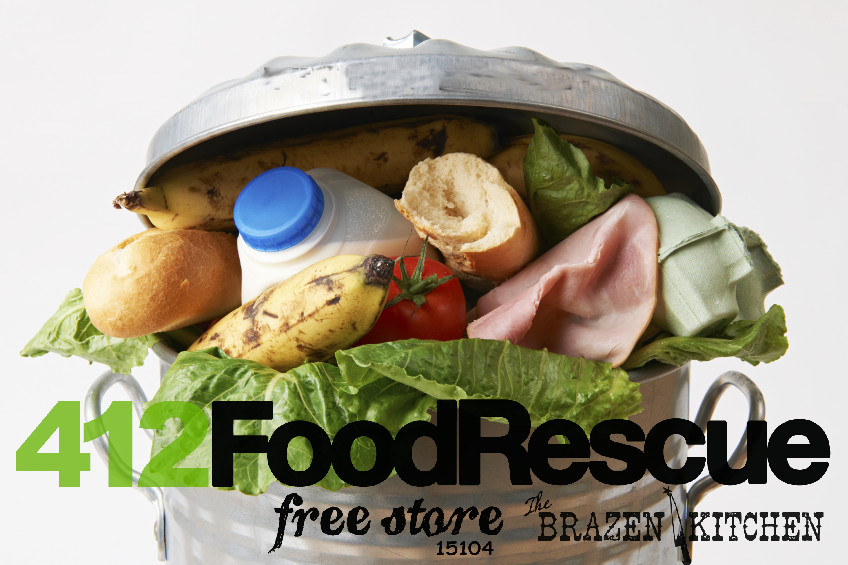
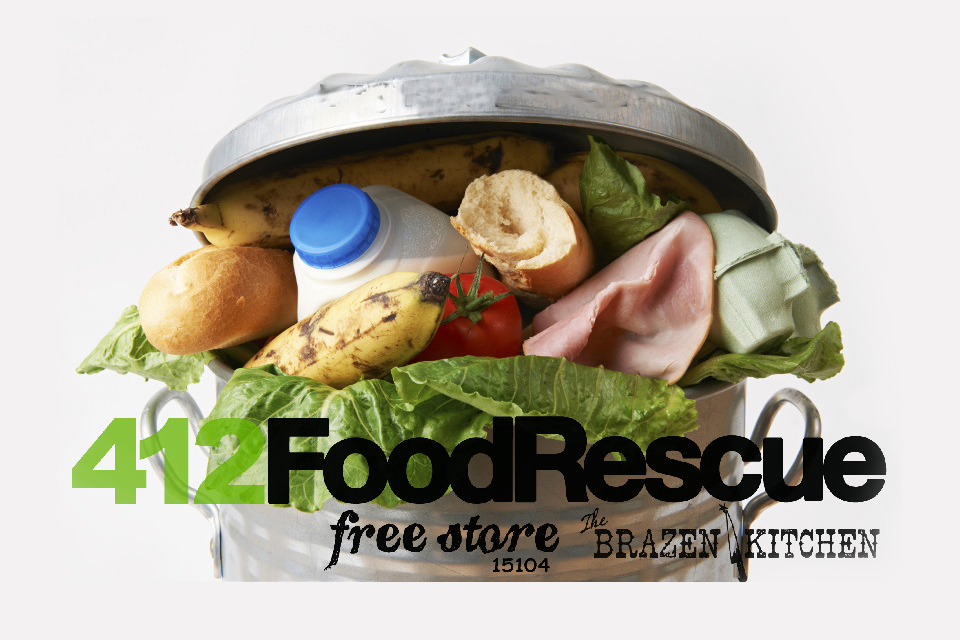
faded main img into bg

diff --git a/_static_assets/scripts/components/Jobs.jsx b/_static_assets/scripts/components/Jobs.jsx
@@ -1,7 +1,9 @@
 var _ = require('underscore'),
 	$ = require('jquery'),
-	React = require('react'),
+	React = require('react/addons'),
 	Job = require('./Job.jsx');
+
+var ReactCSSTransitionGroup = React.addons.CSSTransitionGroup;
 
 var Jobs = React.createClass({
 	propTypes: {
@@ -40,7 +42,9 @@ var Jobs = React.createClass({
 		return _.map(jobs, function(job) {
 			return (
 				<li className="list-unstyled jobs-list-item row">
-					<Job job={job} navToJob={this.navToJob} />
+					<ReactCSSTransitionGroup transitionName="fade">
+						<Job job={job} navToJob={this.navToJob} />
+					</ReactCSSTransitionGroup>   
 				</li>
 			);
 		}, this);

diff --git a/views/index.html b/views/index.html
@@ -4,17 +4,17 @@
     {{ super() }}
     <meta charset="UTF-8">
     <style>
-	  html, body, div
-	  {
+	  html, body, div {
 	    height: 100%;
 	  }
 
 	  body {
+	  	background-color: #f3f1f2;
 	  	background-image: url('img/foodrescue.jpg');
-	        background-repeat: no-repeat;
-	        background-attachment: fixed;
-	        background-position: center; 
-	        cursor: pointer;
+        background-repeat: no-repeat;
+        background-attachment: fixed;
+        background-position: center; 
+        cursor: pointer;
 	  }
     </style>
 {% endblock %}

diff --git a/views/base.html b/views/base.html
@@ -1,6 +1,5 @@
-<!DOCTYPE HTML PUBLIC "-//W3C//DTD HTML 4.01//EN">
-<html lang="en">
-<html xmlns="http://www.w3.org/1999/xhtml">
+<!DOCTYPE html>
+<html>
 <head>
     {% block head %}
     <link rel="stylesheet" href="../scripts/main.css" />
@@ -26,7 +25,7 @@
   </nav>
 
   <div id="content">{% block content %}{% endblock %}</div>
-  <div id="footer">
+  <div id="footer" class="container-fluid">
       {% block footer %}
       &copy; Copyright 2015 by <a href="http://412FoodRescue.org">412 Food Rescue</a>.
       {% endblock %}

diff --git a/scripts/main.css b/scripts/main.css
@@ -1,12 +1,12 @@
 body { 
 	padding-top: 70px;
-	background: #f1f1f1;
+	background-color: #f3f1f2;
 }
 h2 {
 	font-weight: 300;
 	margin-bottom: 30px;
 }
-.jobs-list {
+ul {
 	padding-left: 0;
 	margin-left: 0;
 }
@@ -22,14 +22,14 @@ h2 {
 .job-description {
 
 }
-.job-base {
+/*.job-base {
 	margin: 5px 0;
 	background: #fff;
 	border-radius: 1px;
 	padding: 15px 30px;
 	box-shadow: 0 0 1px 0 rgba(0,0,0,.1),
 				0 1px 2px 0 rgba(0,0,0,.12);
-}
+}*/
 .address-text {
 	margin-right: 4px;
 }

diff --git a/_static_assets/scripts/components/Job.jsx b/_static_assets/scripts/components/Job.jsx
@@ -31,9 +31,9 @@ var Job = React.createClass({
 	    return (
             <div className="job col-lg-12 col-xs-12">
                 {this.renderJobBase(this.state.job)}
-                <ReactCSSTransitionGroup transitionName="fade">
+                
                     {this.state.showDetails && this.renderJobDetails(this.state.job)}
-                </ReactCSSTransitionGroup>           
+                        
             </div>
 	    );
 

diff --git a/_static_assets/scripts/components/DonorList.jsx b/_static_assets/scripts/components/DonorList.jsx
@@ -13,7 +13,8 @@ var DonorList = React.createClass({
     },
     render: function() {    
 	    return (
-            <div>
+            <div className="container">
+                <h2>Donor List</h2>
                 <ul>
                     {this.renderDonorsList(this.state.donors)}
                 </ul>	    	   

diff --git a/views/drop_off/drop_off_list.html b/views/drop_off/drop_off_list.html
@@ -4,9 +4,8 @@
     {{ super() }}
 {% endblock %}
 {% block content %}
-	<!-- list of locations where you can drop things off -->
 
-    <h1>Drop Off List!</h1>
+	<!-- list of locations where you can drop things off -->
 
 	<div id="app-container"></div>
 

diff --git a/views/donor_list.html b/views/donor_list.html
@@ -4,7 +4,6 @@
     {{ super() }}
 {% endblock %}
 {% block content %}
-        <h1>Donor List!</h1>
 
 	<div id="app-container"></div>
 

diff --git a/_static_assets/styles/main.css b/_static_assets/styles/main.css
@@ -1,7 +1,3 @@
-body { 
-	padding-top: 70px;
-	background: #f1f1f1;
-}
 h2 {
 	font-weight: 300;
 	margin-bottom: 30px;
